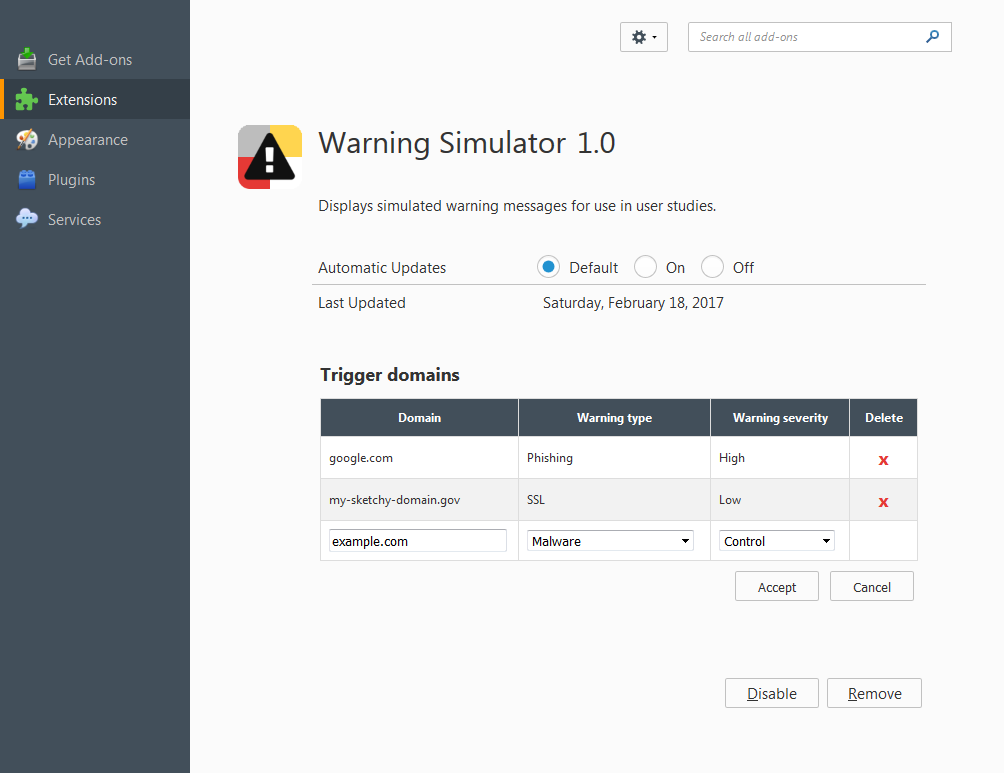
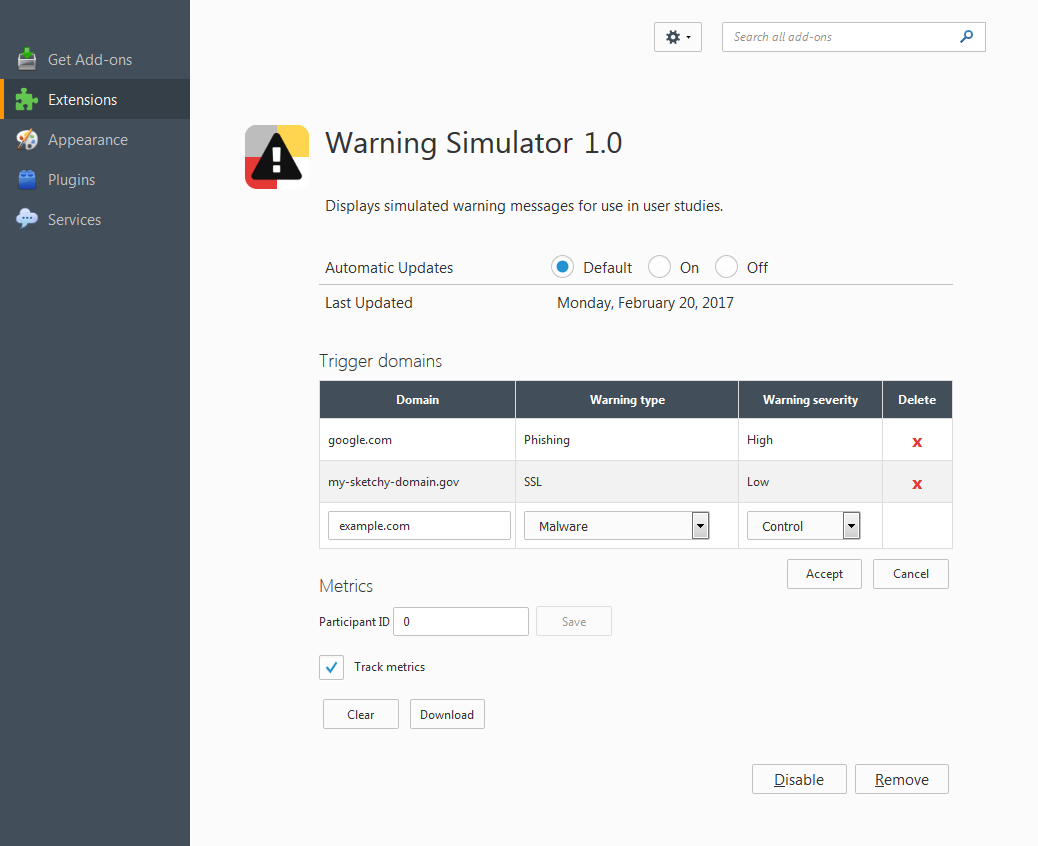
Add metrics tracking

diff --git a/options/options.js b/options/options.js
@@ -4,6 +4,16 @@ var warningTypes = ["SSL", "Malware", "Phishing", "Unwanted software"];
 var severities = ["Low", "Medium", "High", "Control"];
 var domains = [];
 
+function saveToStorage(data, cb) {
+    chrome.storage.local.set(data, function() {
+        var e = chrome.runtime.lastError;
+        if (e)
+            console.log(e.message);
+        else if (cb)
+            cb();
+    });
+};
+
 function addTableEntry(table, entry) {
     // Adds a warning trigger entry to the specified table
     var row = table.insertRow();
@@ -63,12 +73,8 @@ function saveTable() {
             severity: severities.indexOf(row.cells[2].innerHTML)
         };
     }
-    chrome.storage.local.set(data, function() {
+    saveToStorage(data, function() {
         chrome.runtime.sendMessage(data);  // Send to background script
-
-        var e = chrome.runtime.lastError;
-        if (e)
-            console.log(e.message);
     });
 }
 
@@ -109,28 +115,76 @@ function commitEdit() {
     saveTable();
 }
 
+function clearMetrics() {
+    saveToStorage({metrics: []}, function() {
+        document.getElementById("btn-clear-metrics").disabled = true;
+    });
+};
+
+function downloadMetrics() {
+    chrome.storage.local.get("metrics", function(data) {
+        var metrics = data.metrics || [];
+        if (metrics.length > 0) {
+            // Construct CSV
+            var header = Object.keys(metrics[0]);
+            var lines = ["data:text/csv;charset=utf-8," + header.join(",")];
+            metrics.forEach(function(metric) {
+                var c = [];
+                header.forEach(function(column) {
+                    c.push(metric[column]);
+                });
+                lines.push(c.join(","));
+            });
+            // Create and click download link (so we can specify the file name)
+            var a = document.getElementById("link-metrics-download");
+            a.href = encodeURI(lines.join("\n"));
+            a.click();
+        }
+    });
+};
+
 document.addEventListener("DOMContentLoaded", function() {
     var selectors = document.querySelectorAll("tr#row-edit select");
-    populateDropdown(selectors[0], warningTypes);
-    populateDropdown(selectors[1], severities);
+    var acceptBtn = document.getElementById("btn-accept");
+    var participantText = document.getElementById("textbox-participant");
+    var saveParticipantBtn = document.getElementById("btn-save-participent");
+    var trackCb = document.getElementById("checkbox-track");
 
+    // Set up event handlers
+    acceptBtn.addEventListener("click", commitEdit);
     document.getElementById("btn-add").addEventListener("click", function() {
         resetEditInputs();
         showEditControls(true);
     });
-    var acceptBtn = document.getElementById("btn-accept");
-    acceptBtn.addEventListener("click", commitEdit);
     document.getElementById("btn-cancel").addEventListener("click", function() {
         showEditControls(false);
     });
-
     document.querySelector("tr#row-edit input[name='domain']").addEventListener("input", function(e) {
         // Prevent adding duplicate entries
-        if (domains.indexOf(e.target.value) !== -1)
-            acceptBtn.className = "hidden";
-        else
-            acceptBtn.className = "";
+        acceptBtn.disabled = (domains.indexOf(e.target.value) !== -1);
     });
+    participantText.addEventListener("input", function() {
+        saveParticipantBtn.disabled = false;
+    });
+    saveParticipantBtn.addEventListener("click", function() {
+        saveToStorage({participantId: participantText.value}, function() {
+            saveParticipantBtn.disabled = true;
+        });
+    });
+    trackCb.addEventListener("change", function(e) {
+        saveToStorage({trackMetrics: this.checked});
+    });
+    document.getElementById("btn-clear-metrics").addEventListener("click", clearMetrics);
+    document.getElementById("btn-download-metrics").addEventListener("click", downloadMetrics);
 
+    // Load stored data into UI
+    populateDropdown(selectors[0], warningTypes);
+    populateDropdown(selectors[1], severities);
+    chrome.storage.local.get("participantId", function(data) {
+        participantText.value = data.participantId;
+    });
+    chrome.storage.local.get("trackMetrics", function(data) {
+        trackCb.checked = data.trackMetrics;
+    });
     loadTable();
 });

diff --git a/options/options.html b/options/options.html
@@ -2,42 +2,63 @@
 <!DOCTYPE html>
 <html>
 	<head>
+		<link rel="stylesheet" type="text/css" href="chrome://global/skin/in-content/common.css">
 		<link rel="stylesheet" type="text/css" href="options.css">
 		<script type="text/javascript" src="options.js"></script>
 	</head>
 
 	<body>
-		<h1 class="title">Trigger domains</h1>
-		<table id="table-domains">
-			<thead>
-				<th>Domain</th>
-				<th>Warning type</th>
-				<th>Warning severity</th>
-				<th>Delete</th>
-			</thead>
+		<div>
+			<h1 class="title">Trigger domains</h1>
+			<table id="table-domains">
+				<thead>
+					<th>Domain</th>
+					<th>Warning type</th>
+					<th>Warning severity</th>
+					<th>Delete</th>
+				</thead>
 
-			<!-- Editable / draft row for user input -->
-			<tbody>
-				<tr id="row-edit" class="hidden">
-					<td>
-						<input type="text" name="domain" title="Domain for which to trigger the warning message">
-					</td>
-					<td>
-						<select name="type" title="Type of warning message"></select> 
-					</td>
-					<td>
-						<select name="severity" title="Choose standard browser message (control) or the severity of the simulated warning message">
-						</select> 
-					</td>
-					<td></td>
-				</tr>
-			</tbody>
-		</table>
+				<!-- Editable / draft row for user input -->
+				<tbody>
+					<tr id="row-edit" class="hidden">
+						<td>
+							<input type="text" name="domain" title="Domain for which to trigger the warning message">
+						</td>
+						<td>
+							<select name="type" title="Type of warning message"></select>
+						</td>
+						<td>
+							<select name="severity" title="Choose standard browser message (control) or the severity of the simulated warning message">
+							</select>
+						</td>
+						<td></td>
+					</tr>
+				</tbody>
+			</table>
 
-		<button type="button" id="btn-add">Add entry</button>
-		<span id="btns-control" class="hidden">
-			<button type="button" id="btn-accept" title="Accept and add new entry">Accept</button>
-			<button type="button" id="btn-cancel" title="Cancel new entry">Cancel</button>
-		</span>
+			<button type="button" id="btn-add">Add entry</button>
+			<span id="btns-control" class="hidden">
+				<button type="button" id="btn-accept" title="Accept and add new entry">Accept</button>
+				<button type="button" id="btn-cancel" title="Cancel new entry">Cancel</button>
+			</span>
+		</div>
+		<br/>
+		<div>
+			<h1 class="title">Metrics</h1>
+			<label for="textbox-participant">Participant ID</label>
+			<input type="text" id="textbox-participant" title="ID for participant">
+			<button type="button" id="btn-save-participent" title="Save participent ID" disabled>Save</button>
+			<br/><br/>
+
+			<input type="checkbox" id="checkbox-track" title="Track metrics">
+			<label for="checkbox-track">Track metrics</label>
+			<br/><br/>
+
+			<button type="button" id="btn-clear-metrics" title="Clear saved metrics">Clear</button>
+			<button type="button" id="btn-download-metrics" title="Download saved metrics">Download</button>
+
+			<!-- This is so the filename of the metrics CSV can be specified -->
+			<a href="#" id="link-metrics-download" download="metrics.csv" style="display: none"></a>
+		</div>
 	</body>
 </html>

diff --git a/warning/loader.js b/warning/loader.js
@@ -1,6 +1,45 @@
 /* Loader for injecting warning messages into pages */
 
 var resBase = chrome.runtime.getURL("warning/");
+var startTime = new Date().getTime() / 1000;
+var metrics = {
+	clickedMoreInfo: false,
+	clickedBack: false,
+	clickedIgnore: false,
+	timeElapsed: 0  // In seconds
+};
+
+function saveMetrics(cb) {
+	chrome.storage.local.get("participantId", function(data) {
+		metrics.participantId = data.participantId;
+		chrome.storage.local.get("metrics", function(data) {
+			var d = data.metrics || [];
+			d.push(metrics);
+			chrome.storage.local.set({metrics: d}, function() {
+		        var e = chrome.runtime.lastError;
+		        if (e)
+		            console.log(e.message);
+		        else if (cb)
+					cb();
+		    });
+	    });
+	});
+};
+
+function exit() {
+	window.history.back();
+};
+
+function finishWarning(warning) {
+	// Save metrics to local storage (if they're being tracked)
+	metrics.timeElapsed = (new Date().getTime() / 1000) - startTime;
+	chrome.storage.local.get("trackMetrics", function(data) {
+		if (data.trackMetrics)
+			saveMetrics(exit);
+		else
+			exit();
+	});
+};
 
 function initWarning(warning) {
 	// Places warning-specific text into the page
@@ -15,6 +54,10 @@ function initWarning(warning) {
 	document.querySelector(".warning-more-info").innerHTML += warning.moreInfo;
 	document.title = warning.title;
 
+	metrics.warningType = warning.type;
+	metrics.warningSeverity = warning.severity,
+	metrics.domain = document.domain;
+
 	// "More information" button
 	more.onclick = function() {
 		var infoBox = document.querySelector(".warning-more-info");
@@ -22,13 +65,18 @@ function initWarning(warning) {
 			infoBox.style.display = "block";
 		else
 			infoBox.style.display = "none";
+		metrics.clickedMoreInfo = true;
 	};
 
 	back.onclick = function() {
-		window.history.back();
+		metrics.clickedBack = true;
+		finishWarning(warning);
 	};
 
-	// TODO: "ignore this warning" listener
+	document.querySelector(".warning-proceed-link").onclick = function() {
+		metrics.clickedIgnore = true;
+		finishWarning(warning);
+	};
 };
 
 function styleTieredWarning(warning) {

diff --git a/options/options.css b/options/options.css
@@ -24,7 +24,7 @@ table thead {
 
 table th > *,
 table td > * {
-    width: 95%;
+    width: 90%;
 }
 
 table th {
@@ -57,15 +57,6 @@ button {
     color: #333;
 }
 
-button:hover,
-button:focus {
-    background-color: #EBEBEB;
-}
-
-button:active {
-    background-color: #DADADA;
-}
-
 #btn-add,
 #btns-control {
     float: right;
@@ -85,4 +76,10 @@ button:active {
 
 .hidden {
     display: none;
+}
+
+select {
+    -moz-appearance: toolbarbutton-dropdown;
+    min-height: auto;
+    padding: 4px 10px;
 }
